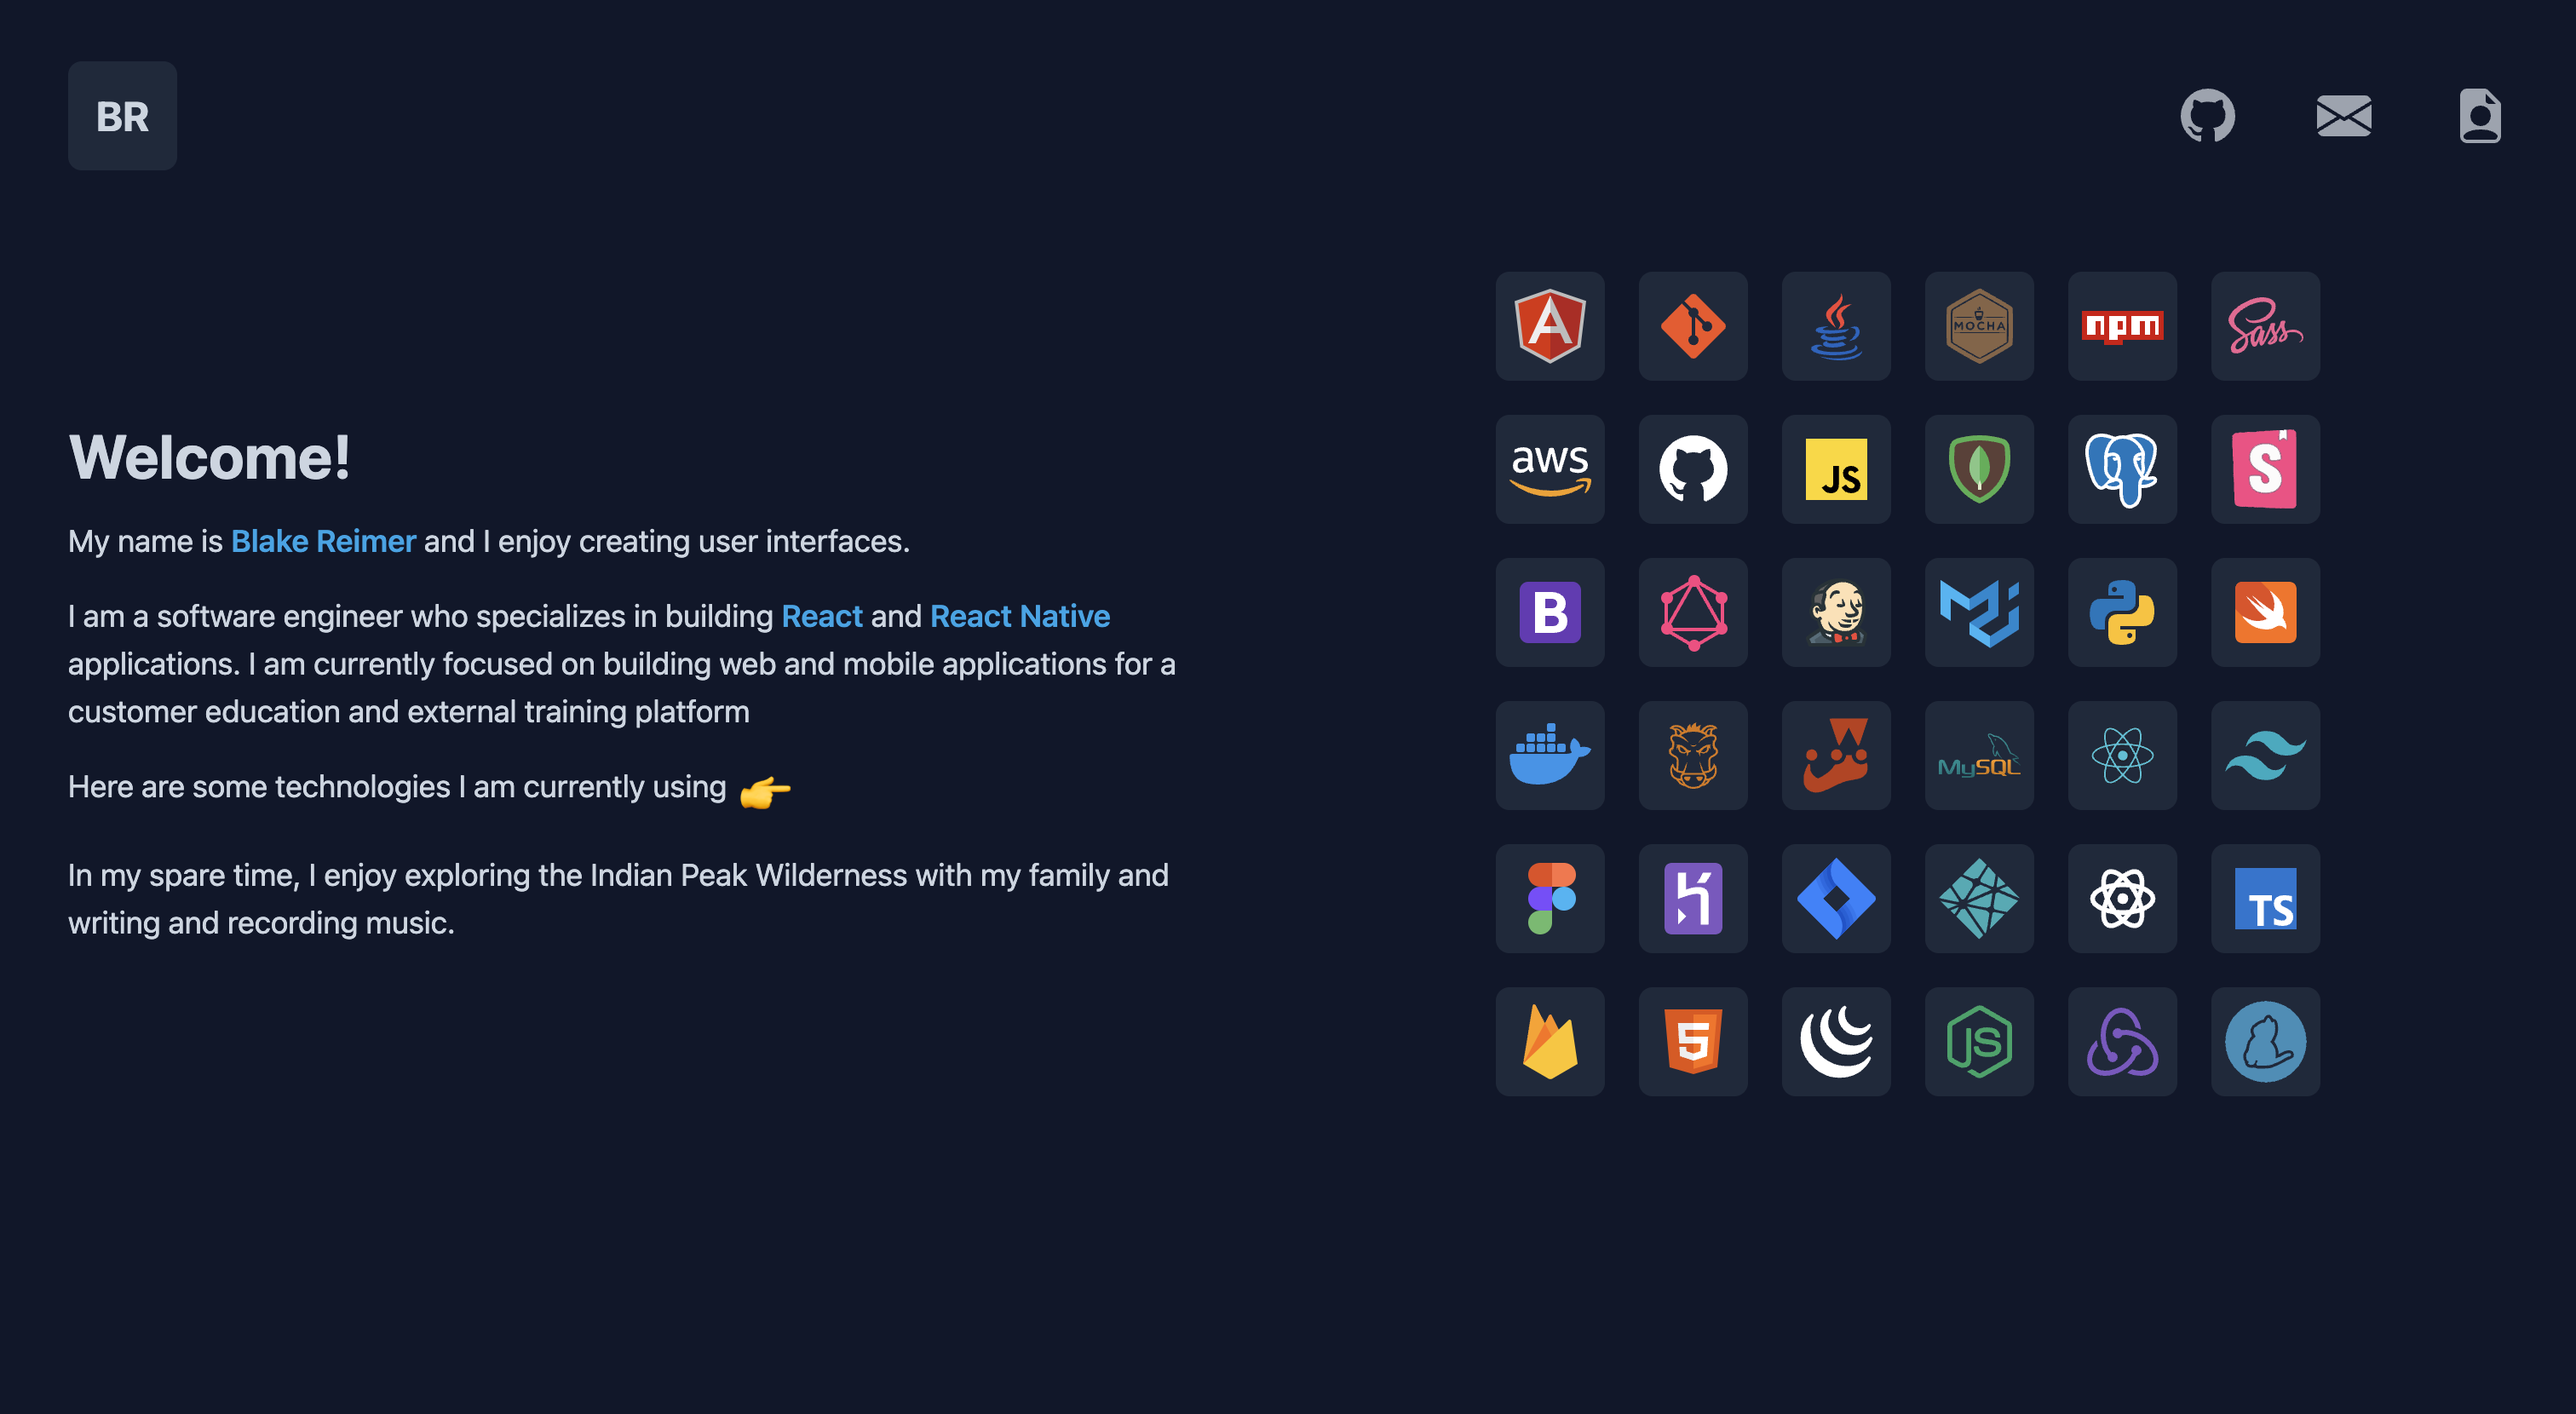
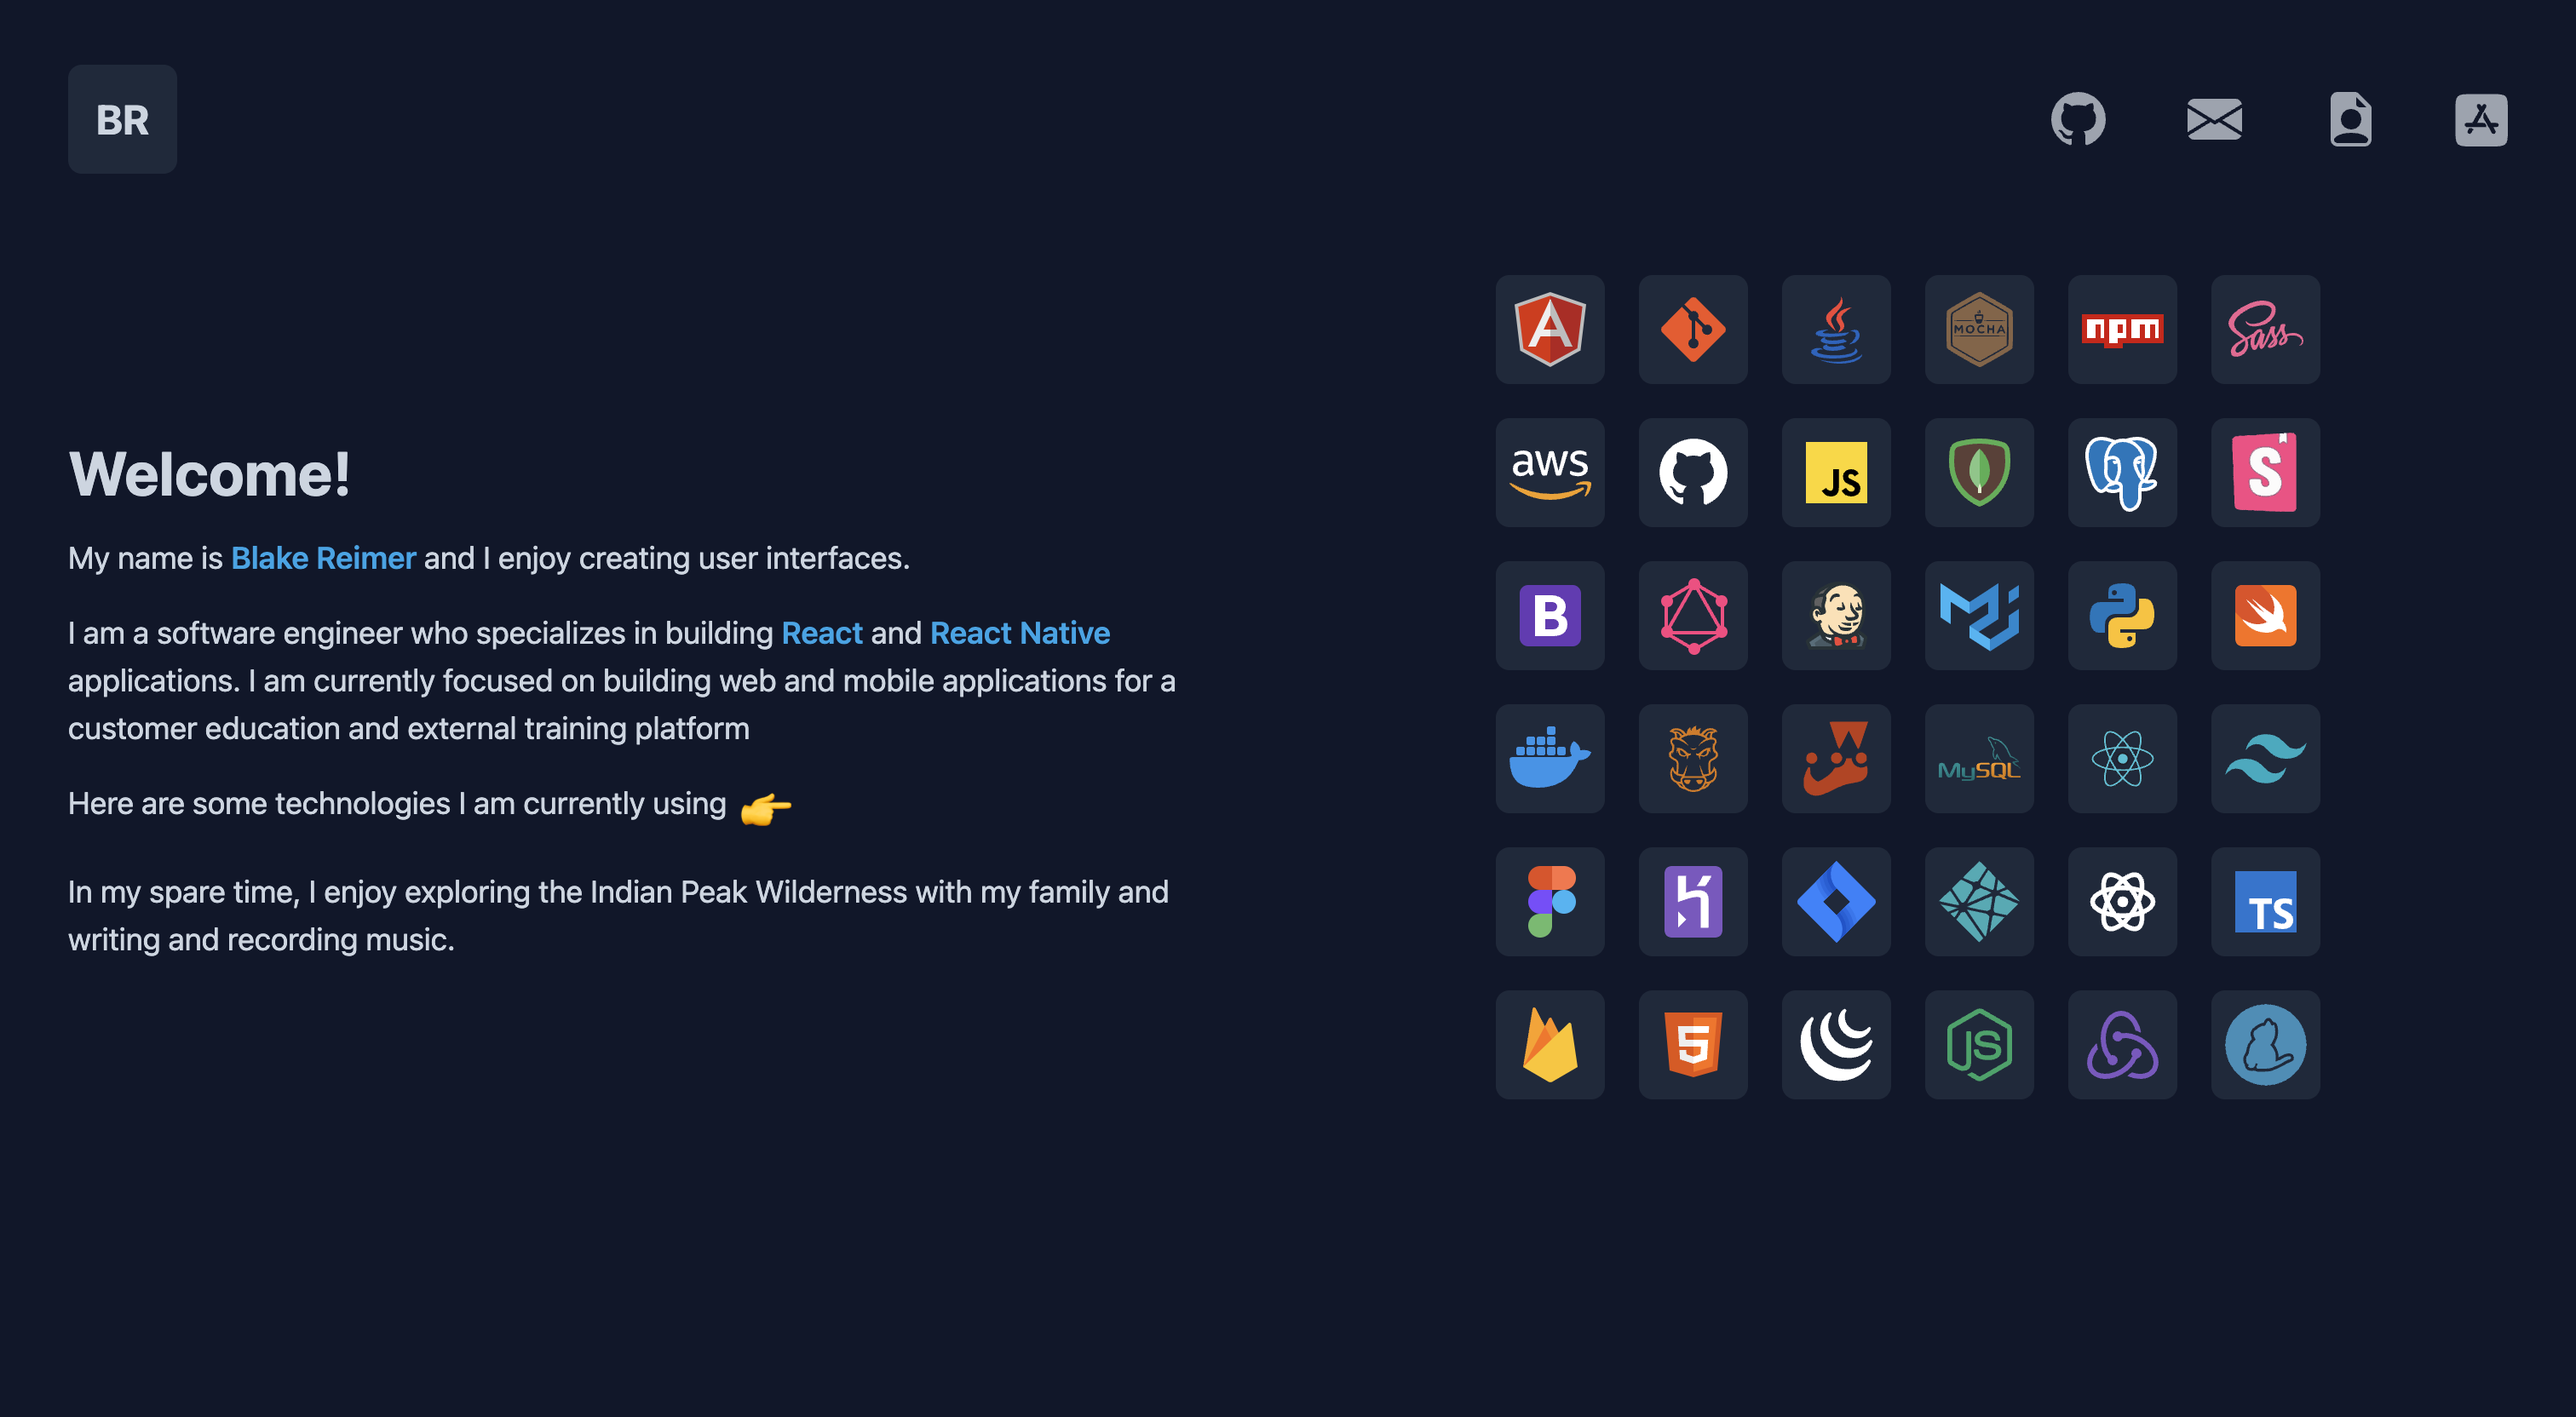
app store

diff --git a/src/components/Intro/Intro.tsx b/src/components/Intro/Intro.tsx
@@ -9,12 +9,12 @@ const Intro = (): JSX.Element => {
   }, []);
 
   return (
-    <div className="flex flex-row justify-center items-center bg-slate-900">
+    <div className="flex flex-row justify-center items-center bg-slate-900 mt-0 sm:mt-4">
       <div>
         <Transition
           appear={true}
           show={isShowing}
-          enter="transition duration-500 delay-[600ms]"
+          enter="transition duration-500 delay-700"
           enterFrom="opacity-0 -translate-y-10"
           enterTo="opacity-100 translate-y-0"
         >
@@ -25,7 +25,7 @@ const Intro = (): JSX.Element => {
         <Transition
           appear={true}
           show={isShowing}
-          enter="transition duration-500 delay-700"
+          enter="transition duration-500 delay-[800ms]"
           enterFrom="opacity-0 -translate-y-8"
           enterTo="opacity-100 translate-y-0"
         >
@@ -40,7 +40,7 @@ const Intro = (): JSX.Element => {
         <Transition
           appear={true}
           show={isShowing}
-          enter="transition duration-500 delay-[800ms]"
+          enter="transition duration-500 delay-[900ms]"
           enterFrom="opacity-0 -translate-y-8"
           enterTo="opacity-100 translate-y-0"
         >
@@ -55,7 +55,7 @@ const Intro = (): JSX.Element => {
         <Transition
           appear={true}
           show={isShowing}
-          enter="transition duration-500 delay-[900ms]"
+          enter="transition duration-500 delay-1000"
           enterFrom="opacity-0 -translate-y-8"
           enterTo="opacity-100 translate-y-0"
         >
@@ -71,7 +71,7 @@ const Intro = (): JSX.Element => {
         <Transition
           appear={true}
           show={isShowing}
-          enter="transition duration-500 delay-[1000ms]"
+          enter="transition duration-500 delay-[1100ms]"
           enterFrom="opacity-0 -translate-y-8"
           enterTo="opacity-100 translate-y-0"
         >

diff --git a/src/components/Icons/AppStore/AppStore.tsx b/src/components/Icons/AppStore/AppStore.tsx
@@ -1,0 +1,22 @@
+import React from "react";
+
+const AppStore = (): JSX.Element => {
+  return (
+    <a
+      className="block"
+      href="https://apps.apple.com/us/app/formis/id1634234837"
+      target="_blank"
+      rel="noreferrer"
+    >
+      <svg
+        xmlns="http://www.w3.org/2000/svg"
+        viewBox="0 0 52 52"
+        className="-ml-3 -my-2 w-8 h-8 sm:w-10 sm:h-10 fill-gray-400 hover:fill-white hover:scale-110 transition duration-300 ease-in-out"
+      >
+        <path d="M40.227,12C51.146,12,52,12.854,52,23.773v16.453C52,51.145,51.146,52,40.227,52H23.773C12.854,52,12,51.145,12,40.227	V23.773C12,12.854,12.854,12,23.773,12H40.227z M24.156,41.685c0.066-0.116,0.676-1.177,1.578-2.75c-0.853-1-1.92-1.251-3.148-0.939	c-0.693,1.207-1.147,1.999-1.204,2.098c-0.439,0.766-0.175,1.743,0.591,2.182C22.739,42.715,23.716,42.451,24.156,41.685z M35.453,37.218c0.671-1.833-0.7-3.039-1.835-3.198c-1.692,0-3.429,0-5.065,0c3.121-5.439,6.782-11.82,6.951-12.114	c0.44-0.766,0.175-1.743-0.591-2.182s-1.743-0.175-2.182,0.591c-0.042,0.074-0.313,0.546-0.731,1.274	c-0.422-0.736-0.688-1.2-0.731-1.274c-0.44-0.766-1.417-1.03-2.182-0.591s-1.031,1.416-0.591,2.182	c0.068,0.119,0.714,1.244,1.661,2.895c-1.567,2.731-3.581,6.241-5.29,9.219c-2.406,0-4.109,0-4.268,0	c-0.883,0-1.599,0.716-1.599,1.599s0.716,1.599,1.599,1.599C20.953,37.218,29.012,37.218,35.453,37.218z M43.401,37.218	c0.883,0,1.599-0.716,1.599-1.599s-0.716-1.599-1.599-1.599c-0.158,0-1.867,0-4.268,0c-1.52-2.649-3.285-5.725-4.76-8.295	c-1.262,1.557-1.466,3.265-0.759,5.103c2.937,5.119,6.073,10.585,6.229,10.856c0.439,0.766,1.417,1.03,2.182,0.591	c0.766-0.439,1.031-1.417,0.591-2.182c-0.068-0.118-0.71-1.238-1.65-2.875C42.366,37.218,43.287,37.218,43.401,37.218z" />
+      </svg>
+    </a>
+  );
+};
+
+export default AppStore;

diff --git a/src/components/Links/Links.tsx b/src/components/Links/Links.tsx
@@ -1,5 +1,5 @@
 import React, { useEffect, useState } from "react";
-import { Email, GitHub, Resume } from "../Icons";
+import { Email, GitHub, Resume, AppStore } from "../Icons";
 import { Transition } from "@headlessui/react";
 
 const Links = (): JSX.Element => {
@@ -10,7 +10,7 @@ const Links = (): JSX.Element => {
   }, []);
 
   return (
-    <div className="flex flex-row gap-12 pt-2 sm:pt-0">
+    <div className="flex flex-row gap-8 sm:gap-12 pt-2 sm:pt-0">
       <Transition
         appear={true}
         show={isShowing}
@@ -37,6 +37,15 @@ const Links = (): JSX.Element => {
         enterTo="opacity-100 translate-y-0"
       >
         <Resume />
+      </Transition>
+      <Transition
+        appear={true}
+        show={isShowing}
+        enter="transition duration-500 delay-300"
+        enterFrom="opacity-0 -translate-y-10"
+        enterTo="opacity-100 translate-y-0"
+      >
+        <AppStore />
       </Transition>
     </div>
   );

diff --git a/src/components/Card/Card.tsx b/src/components/Card/Card.tsx
@@ -12,7 +12,7 @@ const Card = ({ children, name, delay }: any): JSX.Element => {
     <Transition
       as={Fragment}
       show={isShowing}
-      enter="transform transition duration-[400ms] delay-[1200ms]"
+      enter="transform transition duration-[400ms] delay-[1400ms]"
       enterFrom="opacity-0 rotate-[-120deg] scale-50"
       enterTo="opacity-100 rotate-0 scale-100"
       leave="transform duration-200 transition ease-in-out"

diff --git a/src/components/Icons/index.ts b/src/components/Icons/index.ts
@@ -1,6 +1,7 @@
 export * from "./GitHub";
 export * from "./Email";
 export * from "./Resume";
+export * from "./AppStore";
 export * from "./Angular";
 export * from "./AWS";
 export * from "./Bootstrap";

diff --git a/src/components/Icons/AppStore/index.ts b/src/components/Icons/AppStore/index.ts
@@ -1,0 +1,3 @@
+import AppStore from "./AppStore";
+
+export { AppStore };
